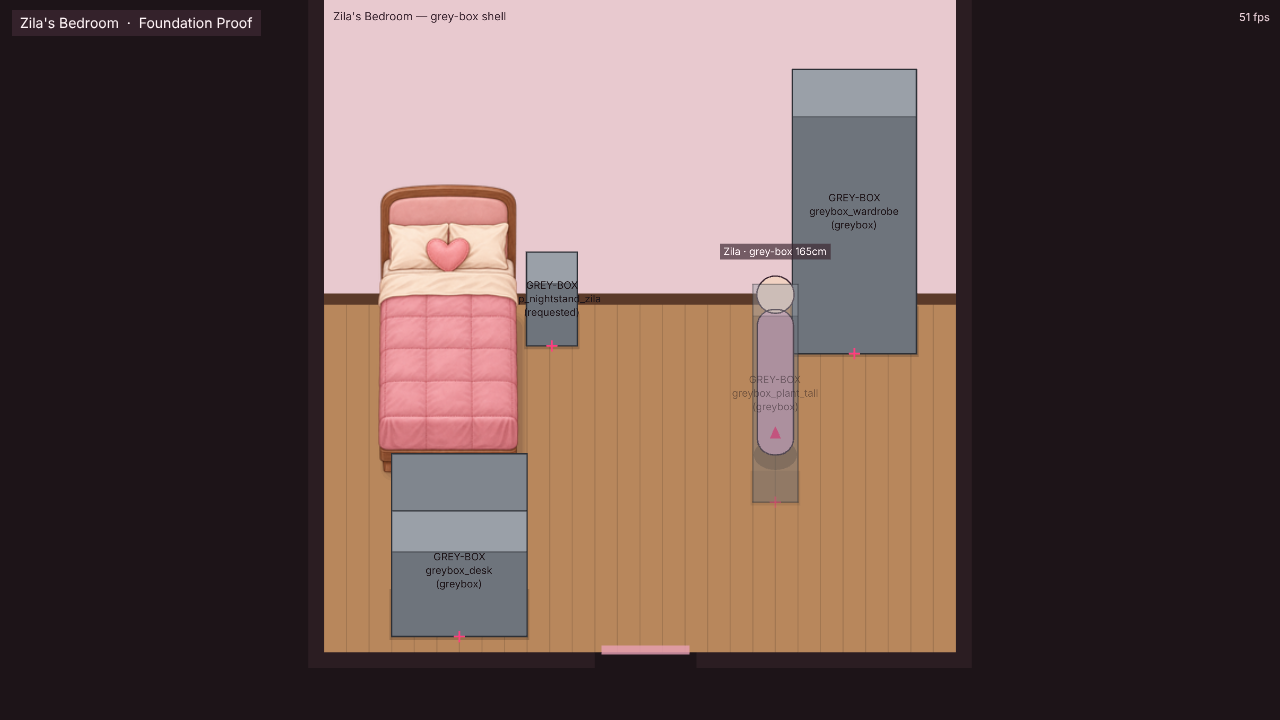
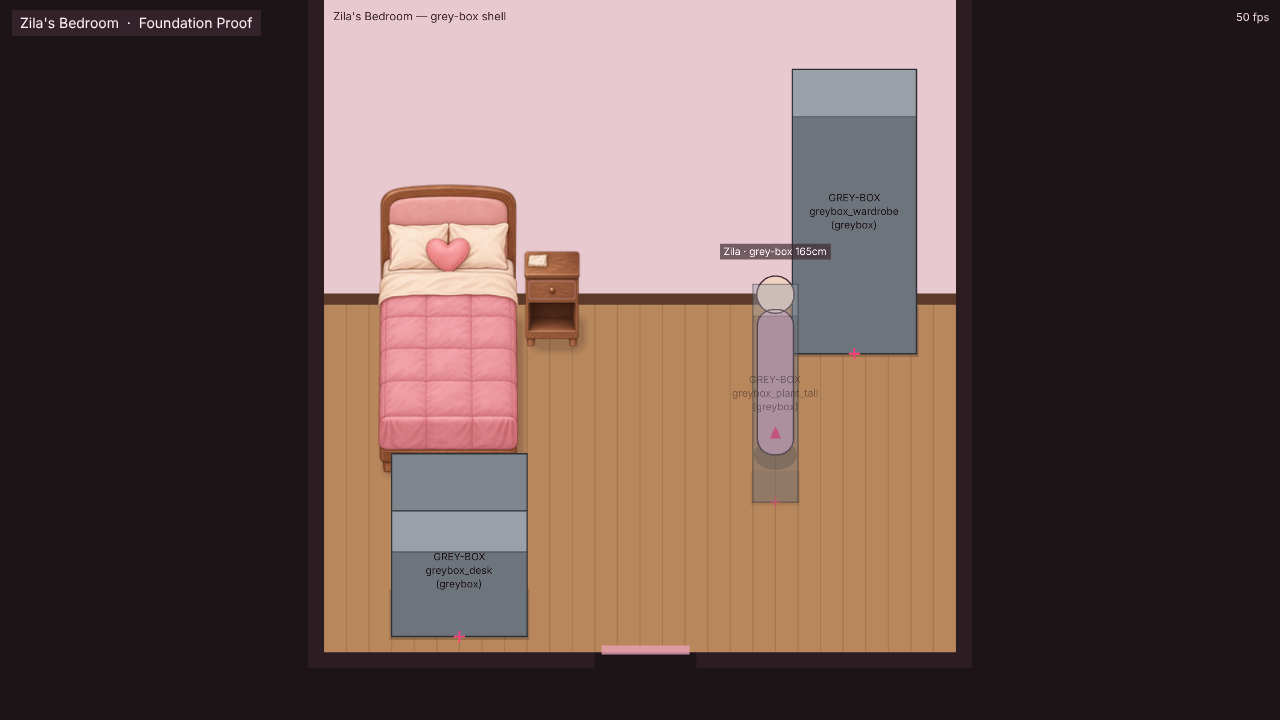
feat(prop_nightstand_zila): approve v001 (CD VISUAL PASS) with measured surface
- approve-asset.mjs: approved master byte-identical to submission (sha256
  13473053…), HD/SD runtime WebP checksums, approval record + geometryException
  (front face +15 %, top plane −28 %, accepted by CD on in-game evidence)
- spec: status approved; surfaces.top measured from the painted master
  (front edge y73.5 → 63.3 cm, plane depth 28.9 cm) with lamp anchor
  (+10, −20, z60 cm → canvas 100,52), tied to the master sha256
- validate-manifest: fails if a measured surface no longer matches the approved master
- Art Bible v1.4 §11: front-face height (±10 %) and top-plane depth (±25 %)
  measured separately; geometry exceptions; measured surfaces for prop placement
- Review doc: CD decision + corrected tabletop measurement
- Tests: surface anchor projection/placement unit tests; e2e verifies both
  approved textures load; furniture-set evidence screenshots

Claude-Session: https://claude.ai/code/session_01P67KtqJMN8ARmJbwhSuoYs

Changed region(s): [[0.4062, 0.3361, 0.4688, 0.4889], [0.9688, 0.0, 1.0, 0.0306]]

diff --git a/tests/e2e/approved-assets.spec.ts b/tests/e2e/approved-assets.spec.ts
@@ -2,7 +2,7 @@ import { expect, test } from '@playwright/test';
 import { boot, SHOTS, state, teleport } from './helpers';
 
 test.describe('approved asset regression', () => {
-  test('approved bed renders from its checksum-verified runtime texture', async ({ page, isMobile }) => {
+  test('approved bed and nightstand render from checksum-verified runtime textures', async ({ page, isMobile }) => {
     const errors = await boot(page);
     const tex = await page.evaluate(() => {
       const g = (window as any).__ZS_GAME;
@@ -11,6 +11,14 @@ test.describe('approved asset regression', () => {
       return { w: img.width, h: img.height };
     });
     expect(tex, 'approved texture loaded instead of grey-box').not.toBeNull();
+    const ns = await page.evaluate(() => {
+      const g = (window as any).__ZS_GAME;
+      if (!g.textures.exists('asset:prop_nightstand_zila')) return null;
+      const img = g.textures.get('asset:prop_nightstand_zila').getSourceImage();
+      return { w: img.width, h: img.height };
+    });
+    expect(ns, 'approved nightstand texture loaded').not.toBeNull();
+    expect(ns!.w / tex!.w).toBeCloseTo(160 / 384, 2); // same density variant for both furniture pieces
     // HD (2 px/cm) = 384x576, SD (1 px/cm) = 192x288 — both must map to the same world size.
     expect([384, 192]).toContain(tex!.w);
     expect(tex!.h / tex!.w).toBeCloseTo(576 / 384);
@@ -20,6 +28,9 @@ test.describe('approved asset regression', () => {
     expect(s.nearest).toMatch(/^prop_bed_zila#\d+:rest$/);
     expect(s.props.some((p) => p.key.startsWith('prop_nightstand_zila#'))).toBe(true);
     await page.screenshot({ path: `${SHOTS}/${isMobile ? 'mobile' : 'desktop'}-06-approved-bed.png` });
+    await teleport(page, 300, 250);   // stand clear so the approved furniture set is fully visible
+    await page.waitForTimeout(400);
+    await page.screenshot({ path: `${SHOTS}/${isMobile ? 'mobile' : 'desktop'}-07-furniture-set.png` });
     expect(errors).toEqual([]);
   });
 

diff --git a/tests/unit/surfaces.test.ts b/tests/unit/surfaces.test.ts
@@ -1,0 +1,31 @@
+import { describe, expect, it } from 'vitest';
+import { getPropSpec } from '../../src/core/specs';
+import { pointToCanvasOffset } from '../../src/core/projection';
+
+describe('measured painted surfaces', () => {
+  const ns = getPropSpec('prop_nightstand_zila');
+  const top = ns.surfaces!.find((s) => s.id === 'top')!;
+
+  it('every anchor projects onto its declared canvas point (±1 px)', () => {
+    for (const a of top.anchors) {
+      const o = pointToCanvasOffset(a.x, a.y, a.z, ns.density);
+      expect(Math.abs(ns.pivot.x + o.x - a.canvas!.x)).toBeLessThanOrEqual(1);
+      expect(Math.abs(ns.pivot.y + o.y - a.canvas!.y)).toBeLessThanOrEqual(1);
+    }
+  });
+
+  it('anchors lie inside the measured painted top plane, not on the front face', () => {
+    for (const a of top.anchors) {
+      const c = a.canvas!;
+      expect(c.y).toBeGreaterThan(top.painted.backEdgeY);
+      expect(c.y).toBeLessThan(top.painted.frontEdgeY);
+      expect(c.x).toBeGreaterThan(top.painted.leftX);
+      expect(c.x).toBeLessThan(top.painted.rightX);
+    }
+  });
+
+  it('painted measurements are self-consistent with the spec projection', () => {
+    expect(top.painted.frontEdgeHeightCm).toBeCloseTo((ns.pivot.y - top.painted.frontEdgeY) / ns.density, 1);
+    expect(top.painted.planeDepthCm).toBeCloseTo((top.painted.frontEdgeY - top.painted.backEdgeY) / (ns.density * 0.7), 0);
+  });
+});

diff --git a/src/core/specs.ts b/src/core/specs.ts
@@ -4,6 +4,15 @@ export interface InteractionAnchorSpec {
   id: string; label: string; x: number; y: number; facing: string; radiusCm: number;
 }
 
+export interface SurfaceAnchorSpec { id: string; x: number; y: number; z: number; canvas?: { x: number; y: number } }
+export interface SurfaceSpec {
+  id: string;
+  nominalHeightCm: number;
+  painted: { backEdgeY: number; frontEdgeY: number; leftX: number; rightX: number; frontEdgeHeightCm: number; planeDepthCm: number };
+  anchors: SurfaceAnchorSpec[];
+  measuredFrom: { version: string; sha256: string };
+}
+
 export interface PropSpec {
   id: string;
   specVersion: string;
@@ -19,6 +28,8 @@ export interface PropSpec {
   sort: { mode: 'footprint' | 'pivot' };
   occluder: boolean;
   interactionAnchors: InteractionAnchorSpec[];
+  surfaces?: SurfaceSpec[];
+  placement?: { type: 'surface'; hostAsset: string; surface: string; anchor: string };
 }
 
 export interface CharacterSpec {

diff --git a/art-bible/ART_BIBLE.md b/art-bible/ART_BIBLE.md
@@ -1,4 +1,4 @@
-# ZsRoom Art Bible — v1.3
+# ZsRoom Art Bible — v1.4
 
 **Style name:** ZsRoom OG Enhanced — Premium HD Illustrated 2D
 **Status:** v1.0 technical standard (Claude Code). Characters §8 are **draft — pending Creative Director approval**.
@@ -141,13 +141,21 @@ Character sheet canvas: 256 × 400 px @ 2 px/cm, pivot (128, 376) between the fe
 
 Each prop spec defines: `footprint` (true floor size), `collision` rectangles relative to the pivot (may add up to `maxSideOverhangCm` on the sides to cover overhanging fabric), and `artBounds` (the box every opaque pixel must stay inside). Art may overhang the footprint sideways by at most `maxSideOverhangCm`; it must never extend below the pivot line except for a ≤ 10 px contact-occlusion fade.
 
-### Painted-geometry tolerance
-Generators don't hit template lines exactly. Painted surface edges (a tabletop's front edge, a mattress top, a headboard top) must land within **±10 % of the designed height, or ±6 px at master density, whichever is larger**, of their template guide line. Submissions report the measured rows in `metadata.selfReview.knownIssues`.
+### Painted-geometry tolerance (v1.4: two separate measurements)
+Generators don't hit template lines exactly. Two quantities are measured **separately**, because they fail differently and matter for different reasons:
 
-- Within tolerance: no revision. Collision, sorting, shadows and interactions are spec-driven and unaffected.
-- Outside tolerance: the Creative Director decides whether to accept it or request a narrowly targeted revision.
-- Neighbouring furniture should not drift in **opposite** directions. Reviews compare the implied camera pitch against approved neighbours.
-- Where props will later carry other props (lamps, books), the approved asset records its measured surface height so placement follows the painted art, not the nominal spec.
+| Measurement | How it is measured (master px) | Tolerance | Why it matters |
+|---|---|---|---|
+| **Front-face height**: floor line → front edge of the main top plane | `pivot.y − frontEdgeY`, where the front edge is the plane's highlight rim, **not** the lip or board thickness below it | **±10 %** of the designed height, min ±6 px | Perceived object height; where props placed on top sit; the relationship with characters and neighbouring furniture |
+| **Top-plane depth**: back edge → front edge of the visible top plane | `frontEdgeY − backEdgeY`, compared with `depthCm × 0.7 × density` | **±25 %**, min ±8 px | Implied camera pitch: too shallow reads "seen from lower", too deep reads "seen from above" |
+
+- Submissions report the measured rows (`backEdgeY`, `frontEdgeY`) in `metadata.selfReview.knownIssues`. Reviewers re-measure with a row-luminance profile.
+- **Within both tolerances:** no revision.
+- **Outside either tolerance:** the Creative Director decides whether to accept it as a recorded **geometry exception** (`approval.geometryException` in the manifest) or request a narrow revision.
+- **Neighbour pitch check:** the implied pitch (top-plane depth ÷ front-face height, normalised by the designed values) of furniture that stands together should not drift in opposite directions.
+- **Surfaces that carry props:** the approved asset records its **measured painted surface** and attachment anchors in the spec (`surfaces[]`, tied to the master's SHA-256 via `measuredFrom`). Props placed on it use those values, never the nominal height. `validate-manifest` fails if the art changes without re-measuring.
+
+Current records: `prop_bed_zila` v001 is within both tolerances. `prop_nightstand_zila` v001 is a CD exception: front face +15 %, top plane −28 %; surface `top` measured.
 
 ## 12. Occlusion & depth sorting
 
@@ -191,7 +199,7 @@ Approved assets become **style references** for their own category. They are not
 
 | Category | Current reference | Approved |
 |---|---|---|
-| Painted furniture (interior props) | `art/approved/prop_bed_zila/prop_bed_zila_v001.png` | 2026-11-18 |
+| Painted furniture (interior props) | `art/approved/prop_bed_zila/prop_bed_zila_v001.png`, `art/approved/prop_nightstand_zila/prop_nightstand_zila_v001.png` (reference for finish and materials, **not** for its tabletop geometry) | 2026-11-18 |
 | Characters | — (proportions draft, §8) | — |
 | Architecture / walls / floors | — | — |
 | Exterior / city / travel | — | — |
@@ -202,6 +210,8 @@ Approved assets become **style references** for their own category. They are not
 - Known gaps in the current furniture reference, to improve gradually in new assets **without regenerating approved ones**: a more visible upper-left key light, and slightly crisper coloured contours.
 
 ## Changelog
+
+- **v1.4 (2026-11-18)** — §11 separates front-face height (±10 %) from top-plane depth (±25 %); geometry exceptions and measured surfaces. §16: nightstand v001 joins the furniture references.
 
 - **v1.3 (2026-11-18)** — §11 painted-geometry tolerance (from the `prop_nightstand_zila` v001 review).
 

diff --git a/docs/reviews/prop_nightstand_zila-v001.md b/docs/reviews/prop_nightstand_zila-v001.md
@@ -54,3 +54,17 @@ PR: https://github.com/nugrohofebri681-oss/ZsRoom/pull/3 (head `ea4ed3f`). Not m
 Grant VISUAL PASS to candidate C v001 once the Creative Director agrees. The priority this request set — the bed's walnut colour and painted finish — is met by measurement and by eye. A v002 would only chase a 5 cm geometric deviation with no gameplay consequence.
 
 If the Creative Director prefers a v002 anyway, keep it narrow: *same design and wood; tabletop front edge on y 90 (top depth 56 px); front face 110 px; nothing else changes.*
+
+## Creative Director decision — 2026-11-18
+> **VISUAL PASS — `prop_nightstand_zila` v001, candidate C.** No v002. Approval applies only to this nightstand v001. It is not blanket approval of future assets and not a whole-game style lock. (Recorded on PR #3.)
+
+## Integration measurement (correction to the review above)
+Precise row-luminance profiling of the approved master during integration found the **top-plane front edge at y 73–74** (its highlight rim), not y 78–80. Rows 75–79 are the front lip of the tabletop board. Corrected figures:
+
+| Measure | Designed | Painted | Deviation |
+|---|---|---|---|
+| Top-plane back edge | y 34 | y 33 | −1 px |
+| Top-plane front edge → front-face height | y 90 → 55 cm | y 73.5 → **63.3 cm** | **+15 %** |
+| Top-plane depth | 56 px → 40 cm | 40.5 px → **28.9 cm** | **−28 %** |
+
+Both values are outside the Art Bible §11 tolerances (front face ±10 %, top plane ±25 %). The asset is therefore integrated as a **Creative Director geometry exception**, approved on the in-game evidence above. The gameplay findings are unchanged, because collision, sorting, shadow and interaction are spec-driven. Props placed on the nightstand use the **measured painted surface** (`surfaces.top` in the spec), not the nominal 55 cm.
